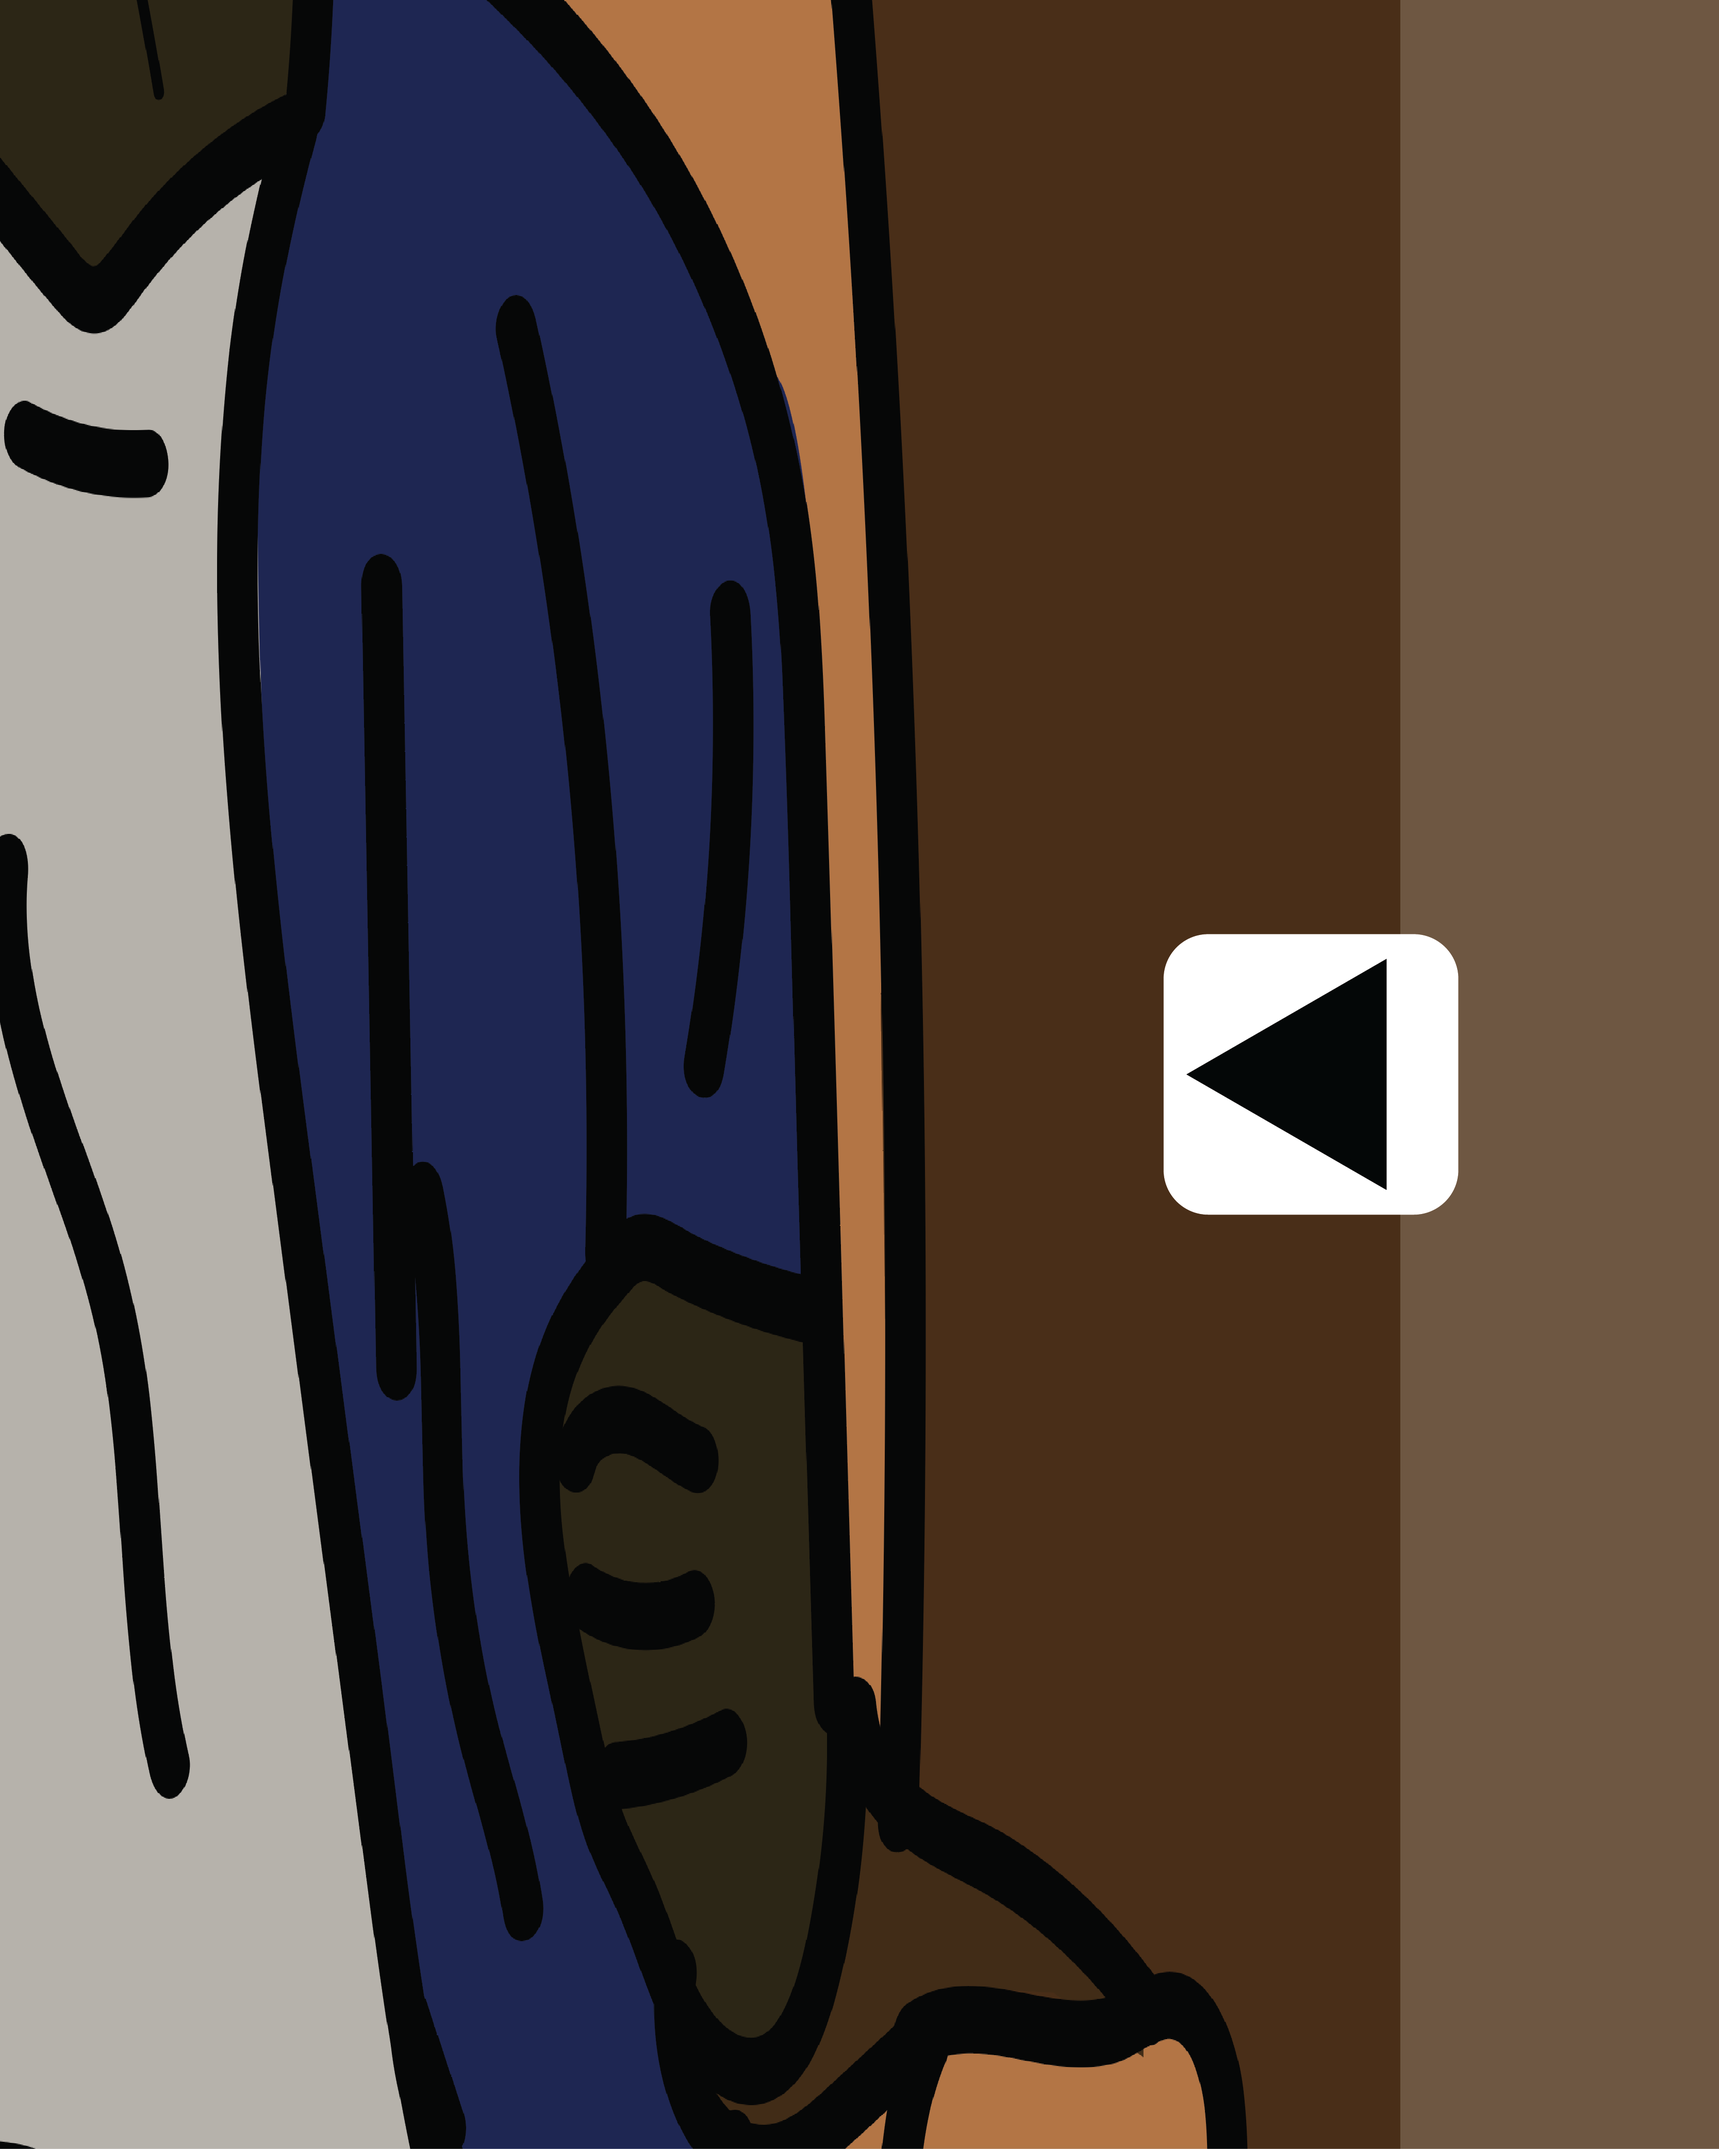
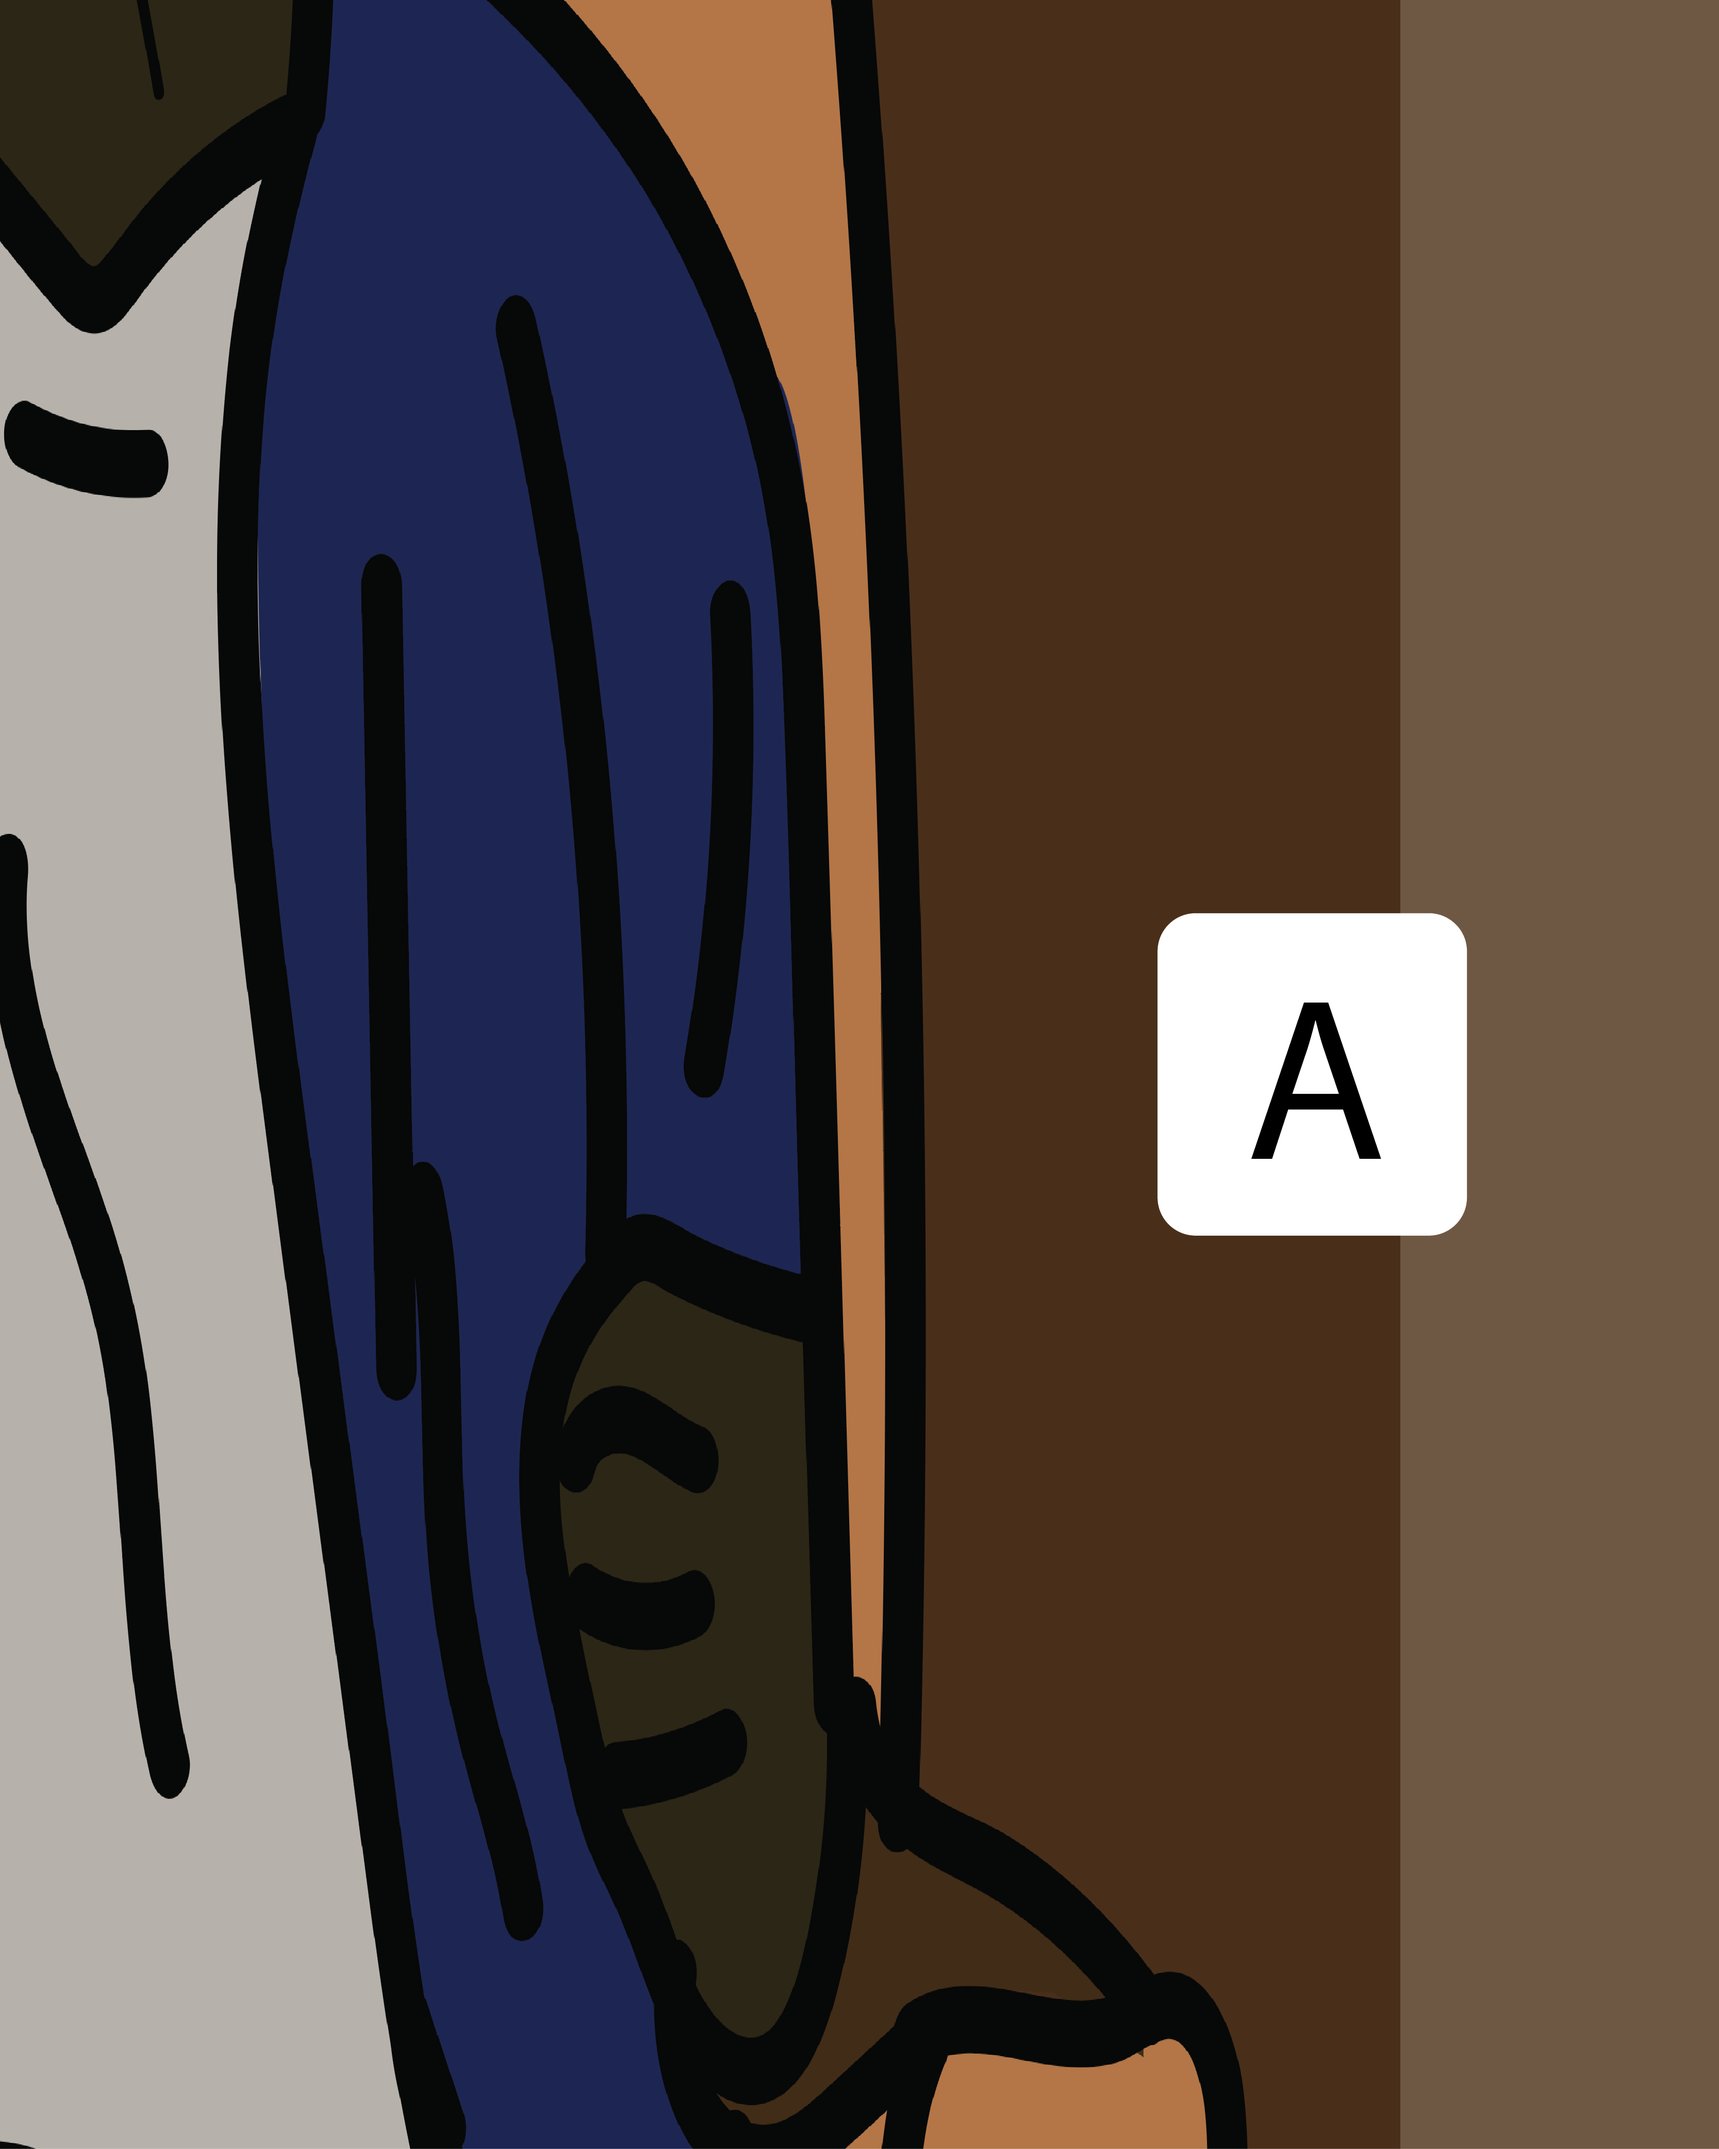
P1 Update the images/Changed key selection.

Changed region(s): [[0.6551, 0.4056, 0.8422, 0.5928], [0.8422, 0.4368, 0.8734, 0.5616]]

diff --git a/Projects/project1/js/States/LeftArm.js b/Projects/project1/js/States/LeftArm.js
@@ -41,8 +41,8 @@ class LeftArm extends Universal {
 
   //Key pressed functionality
   keyPressed() {
-    //Right key
-    if (keyCode === 39) {
+    //D key
+    if (keyCode === 68) {
       //Check if the right key is pressed to display this image
       this.currentImage = this.leftArmImage1;
       //Add a progress point when this key is pressed
@@ -50,14 +50,19 @@ class LeftArm extends Universal {
       //Play the struggleSFX
       struggleSFX.play();
     }
-    //Left key
-    else if (keyCode === 37) {
+    //A key
+    else if (keyCode === 65) {
       //Check if the left key is pressed to display the image
       this.currentImage = this.leftArmImage2;
       //Add a progress point when this key is pressed
       this.progress = this.progress + this.addProgress;
       //Play the struggleSFX
       struggleSFX.play();
+    }
+    //Left Arrow Key
+    else if (keyCode === 39) {
+      //Go to the right arm
+      state = '';
     }
   }
 }
